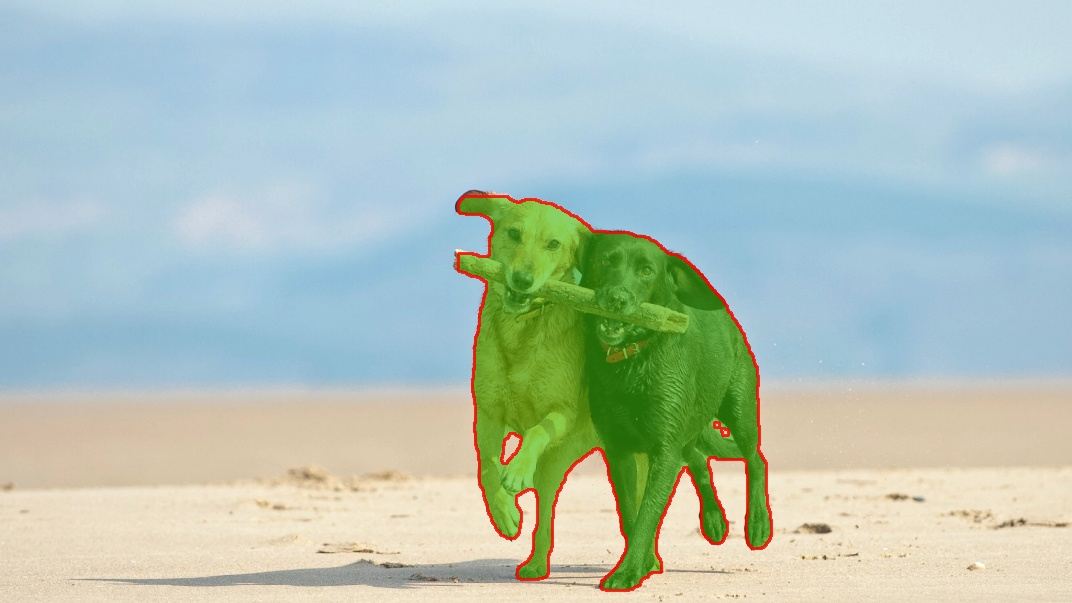
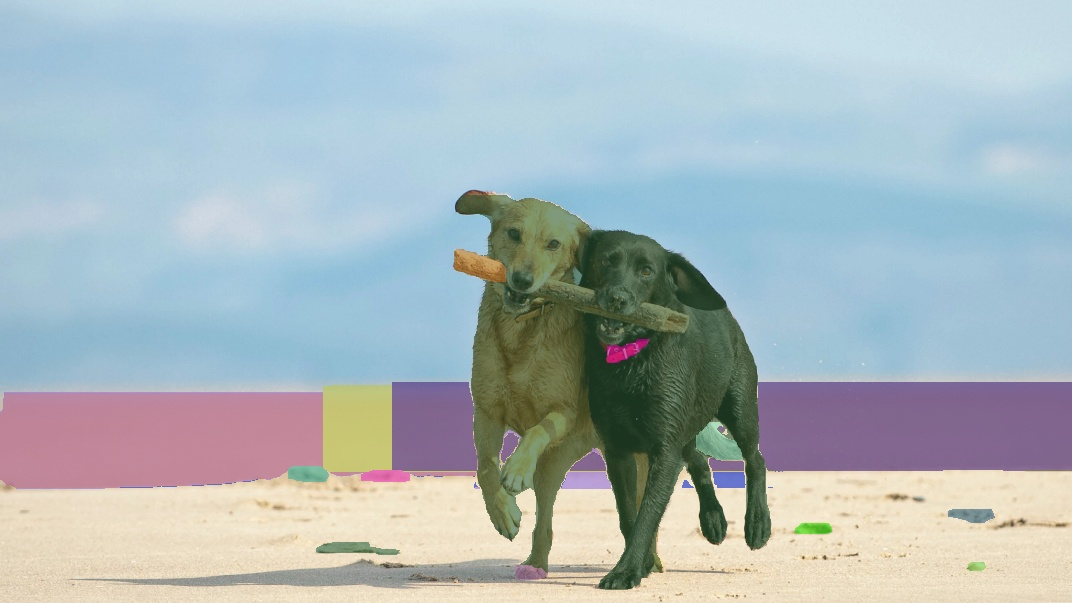
gitignore problem

diff --git a/Inference.py b/Inference.py
@@ -9,7 +9,7 @@ from utils.tools import convert_box_xywh_to_xyxy
 def parse_args():
     parser = argparse.ArgumentParser()
     parser.add_argument(
-        "--model_path", type=str, default="./weights/FastSAM.pt", help="model"
+        "--model_path", type=str, default="./weights/FastSAM-s.pt", help="model"
     )
     parser.add_argument(
         "--img_path", type=str, default="./images/dogs.jpg", help="path to image file"
